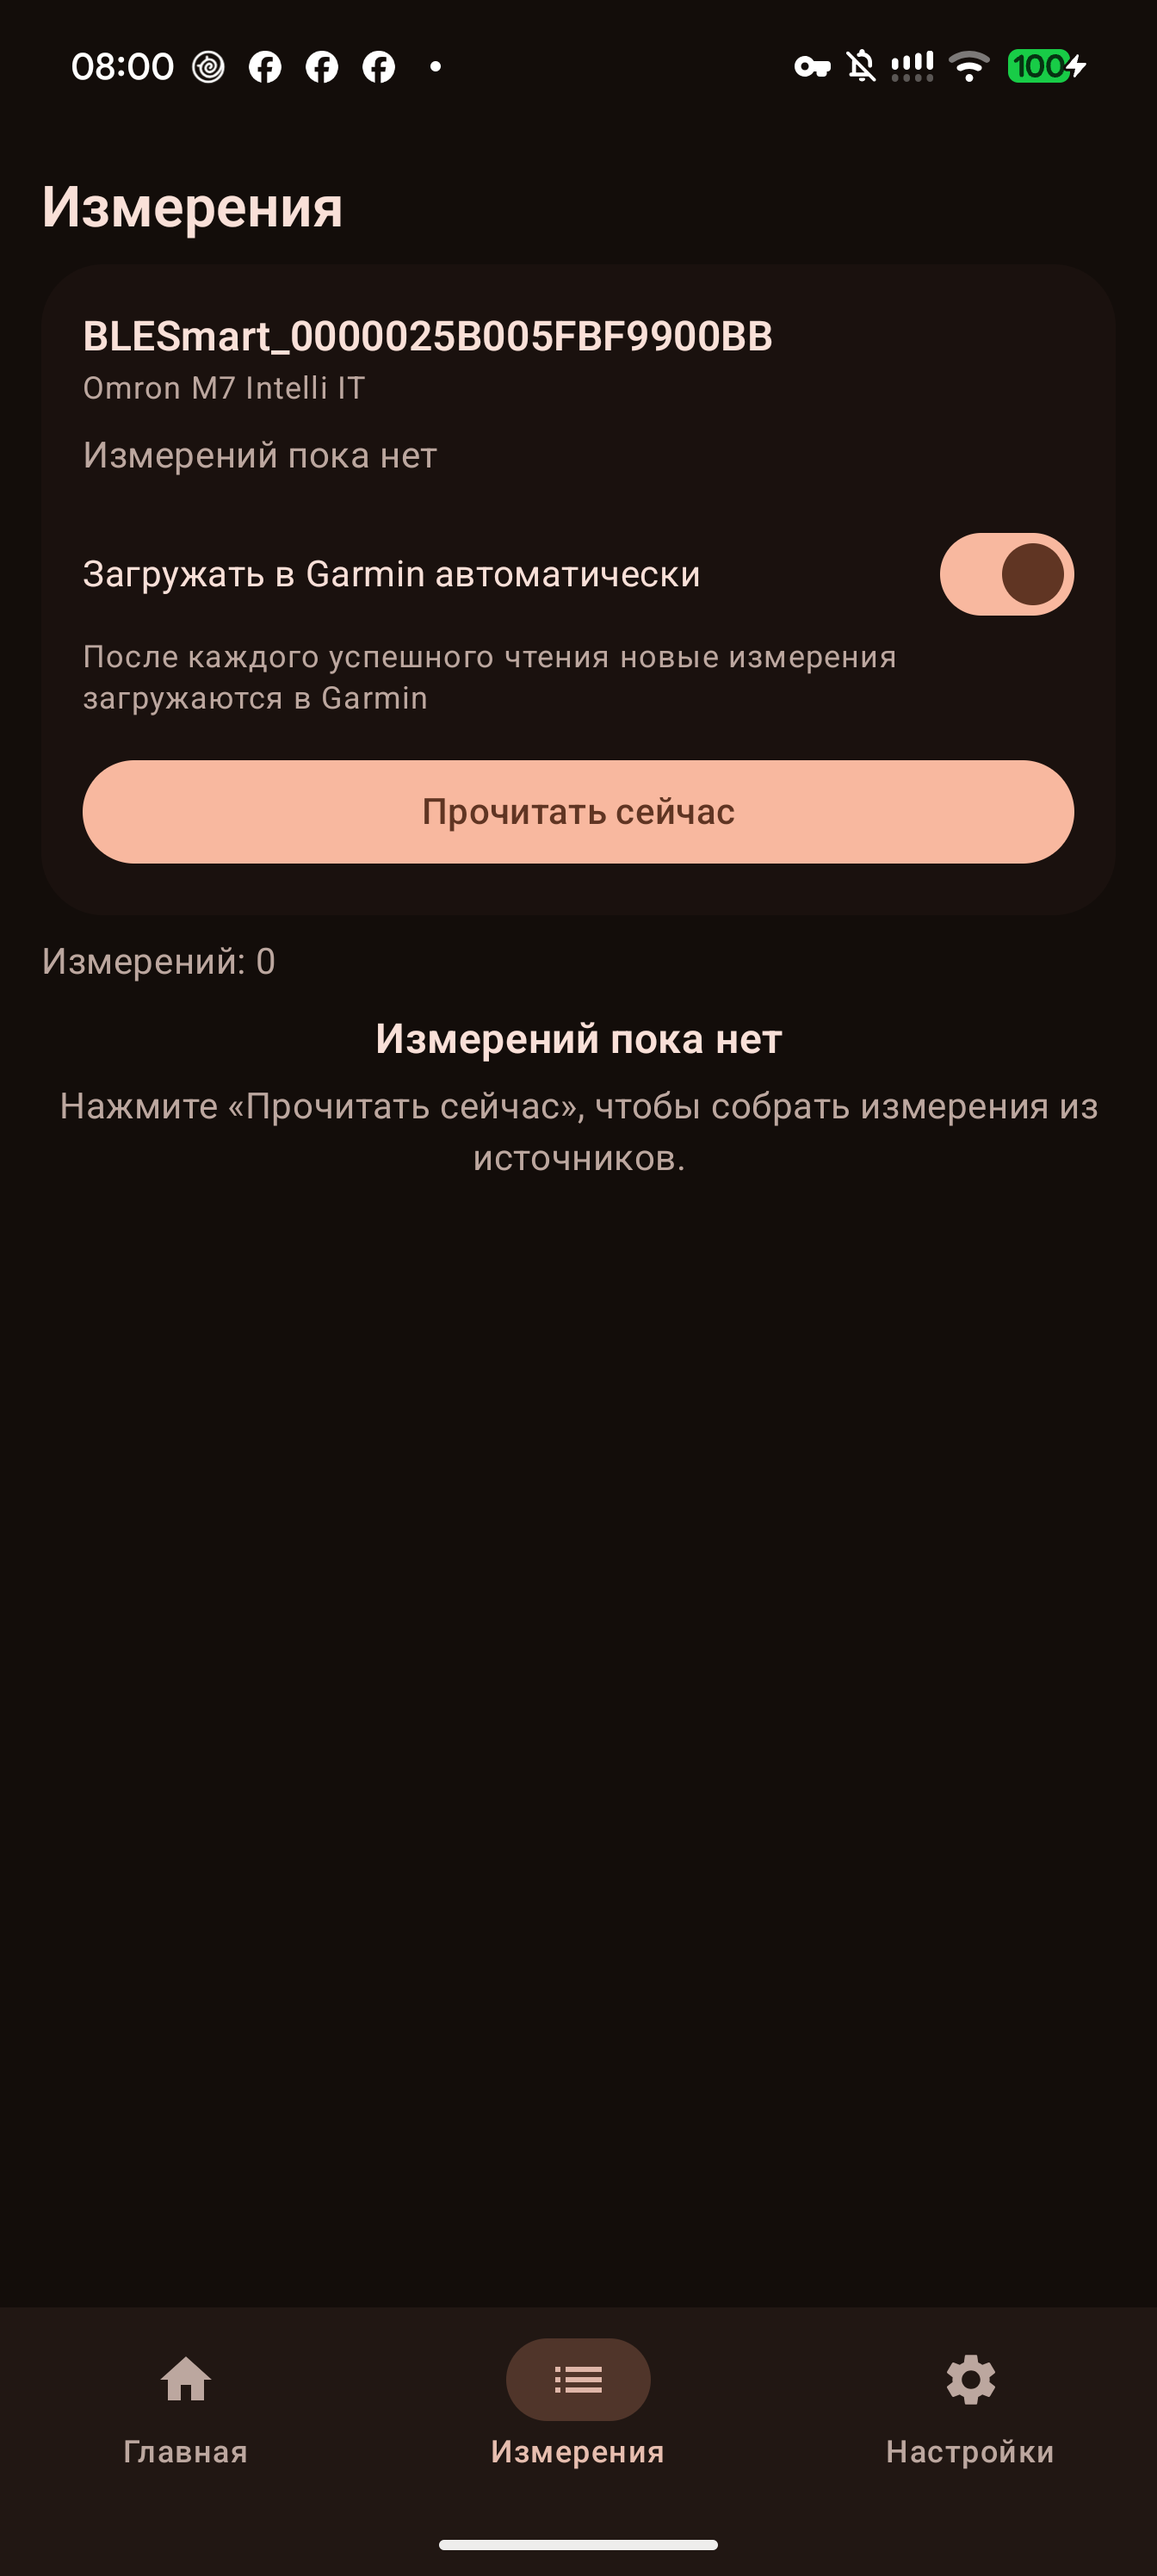
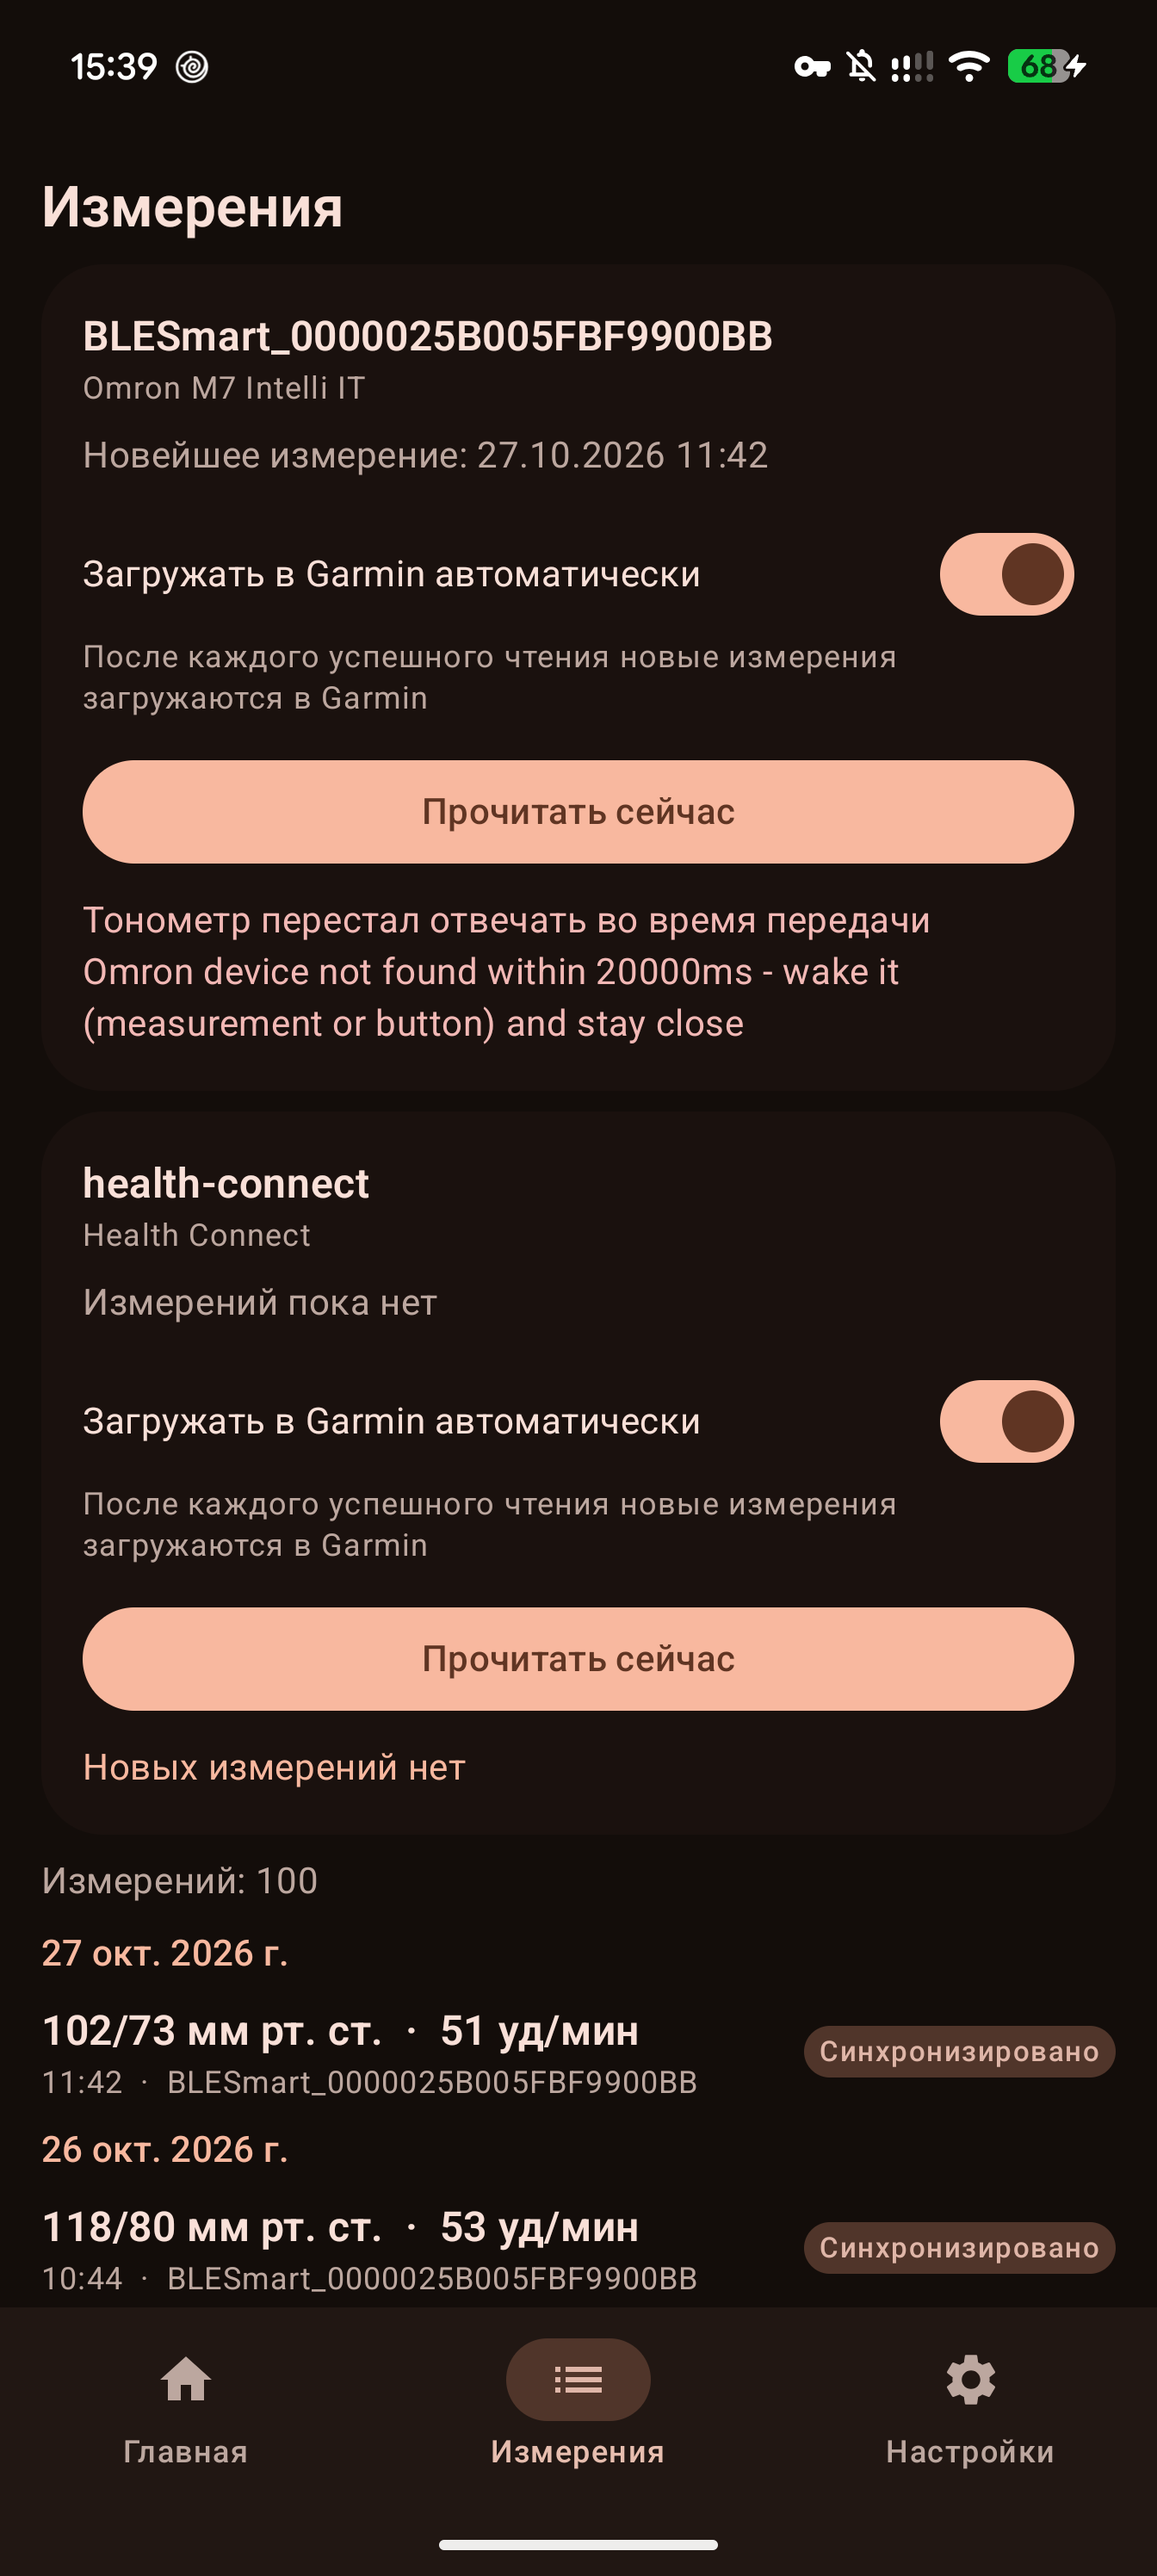
Docs increment: measurements screenshots with real data (100 readings, two source cards); xlg.10 evidence

diff --git a/README.md b/README.md
@@ -62,7 +62,7 @@ Captured on a real phone with a connected Omron M7 Intelli IT (the phone in thes
 
 | Measurements (light) | Measurements (dark) |
 | :---: | :---: |
-| <img src="docs/images/screenshot-measurements-light.png" width="260" alt="Extra Health Garmin measurements tab — the connected Omron source card with device user, autosync switch and Read now button; empty state before the first read"> | <img src="docs/images/screenshot-measurements-dark.png" width="260" alt="Extra Health Garmin measurements tab in dark theme — the Omron source card with Read now and the empty readings state"> |
+| <img src="docs/images/screenshot-measurements-light.png" width="260" alt="Extra Health Garmin measurements tab — blood-pressure readings grouped by day with systolic, diastolic and pulse values, synced badges, and per-source cards (Omron M7 Intelli IT, Health Connect) with Read now and autosync"> | <img src="docs/images/screenshot-measurements-dark.png" width="260" alt="Extra Health Garmin measurements tab in dark theme — day-grouped blood-pressure readings from a connected monitor with sync status and source cards"> |
 
 | Settings | Settings with a connected source |
 | :---: | :---: |
